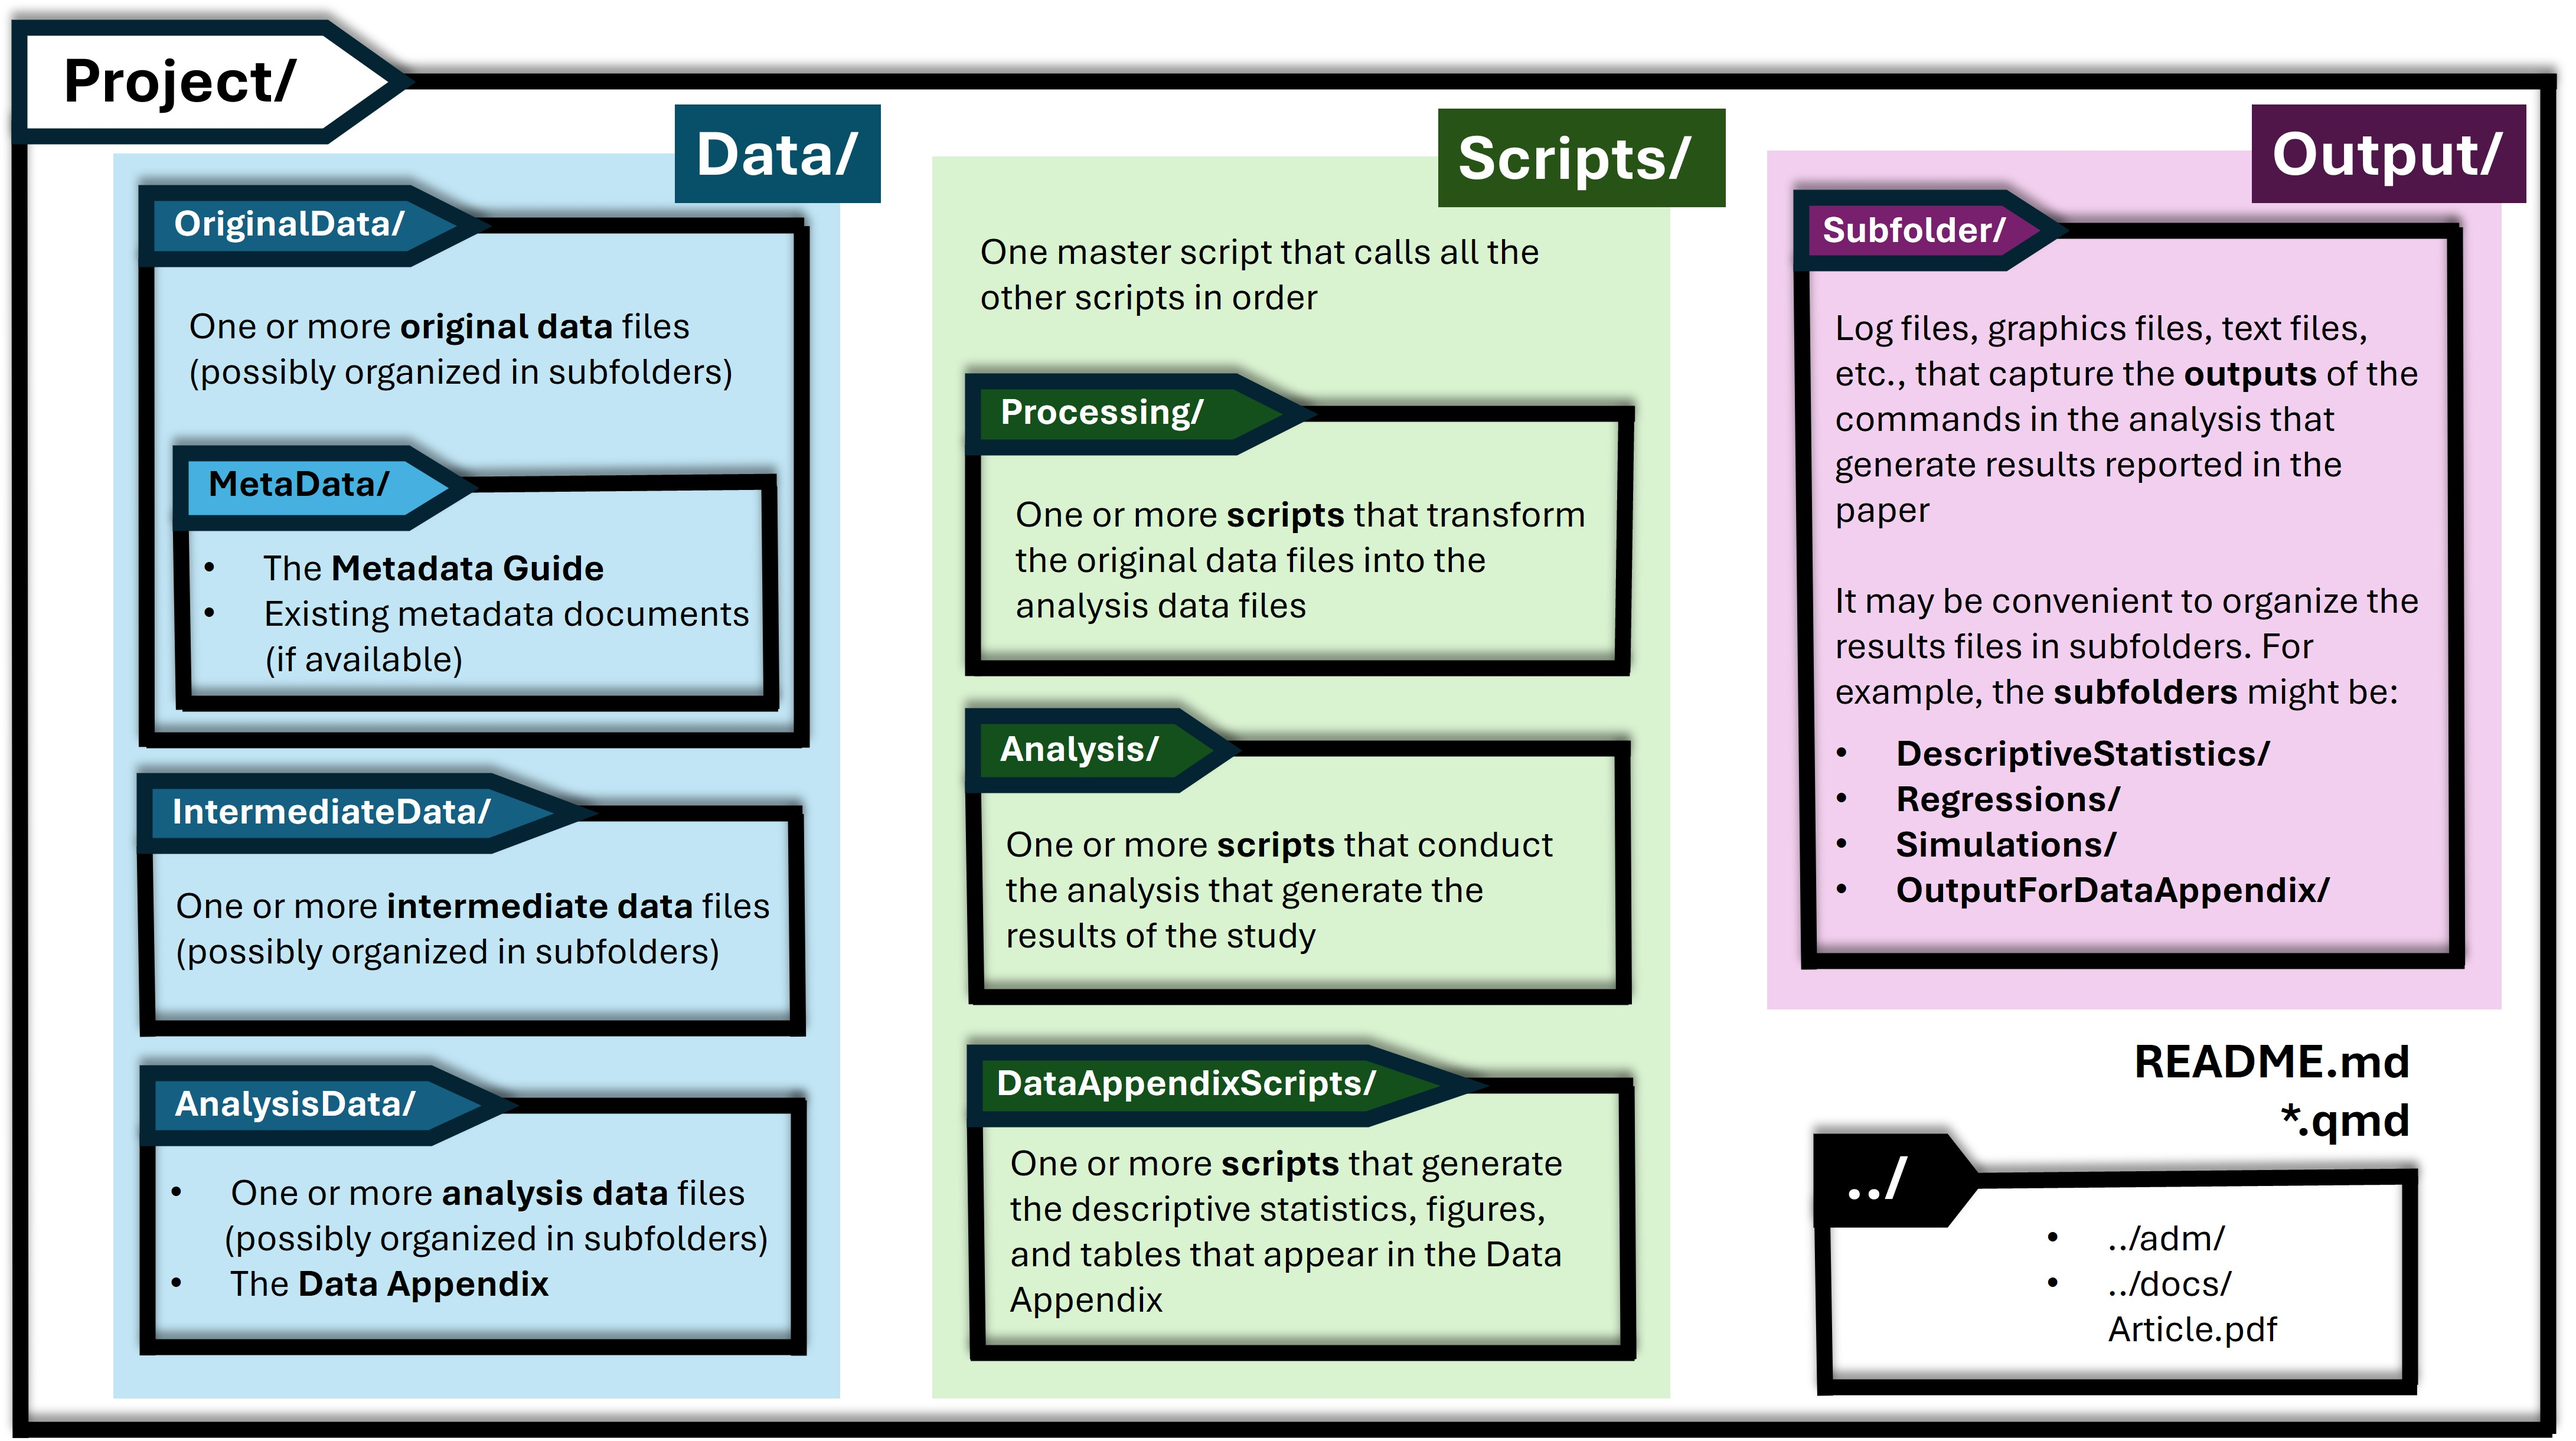
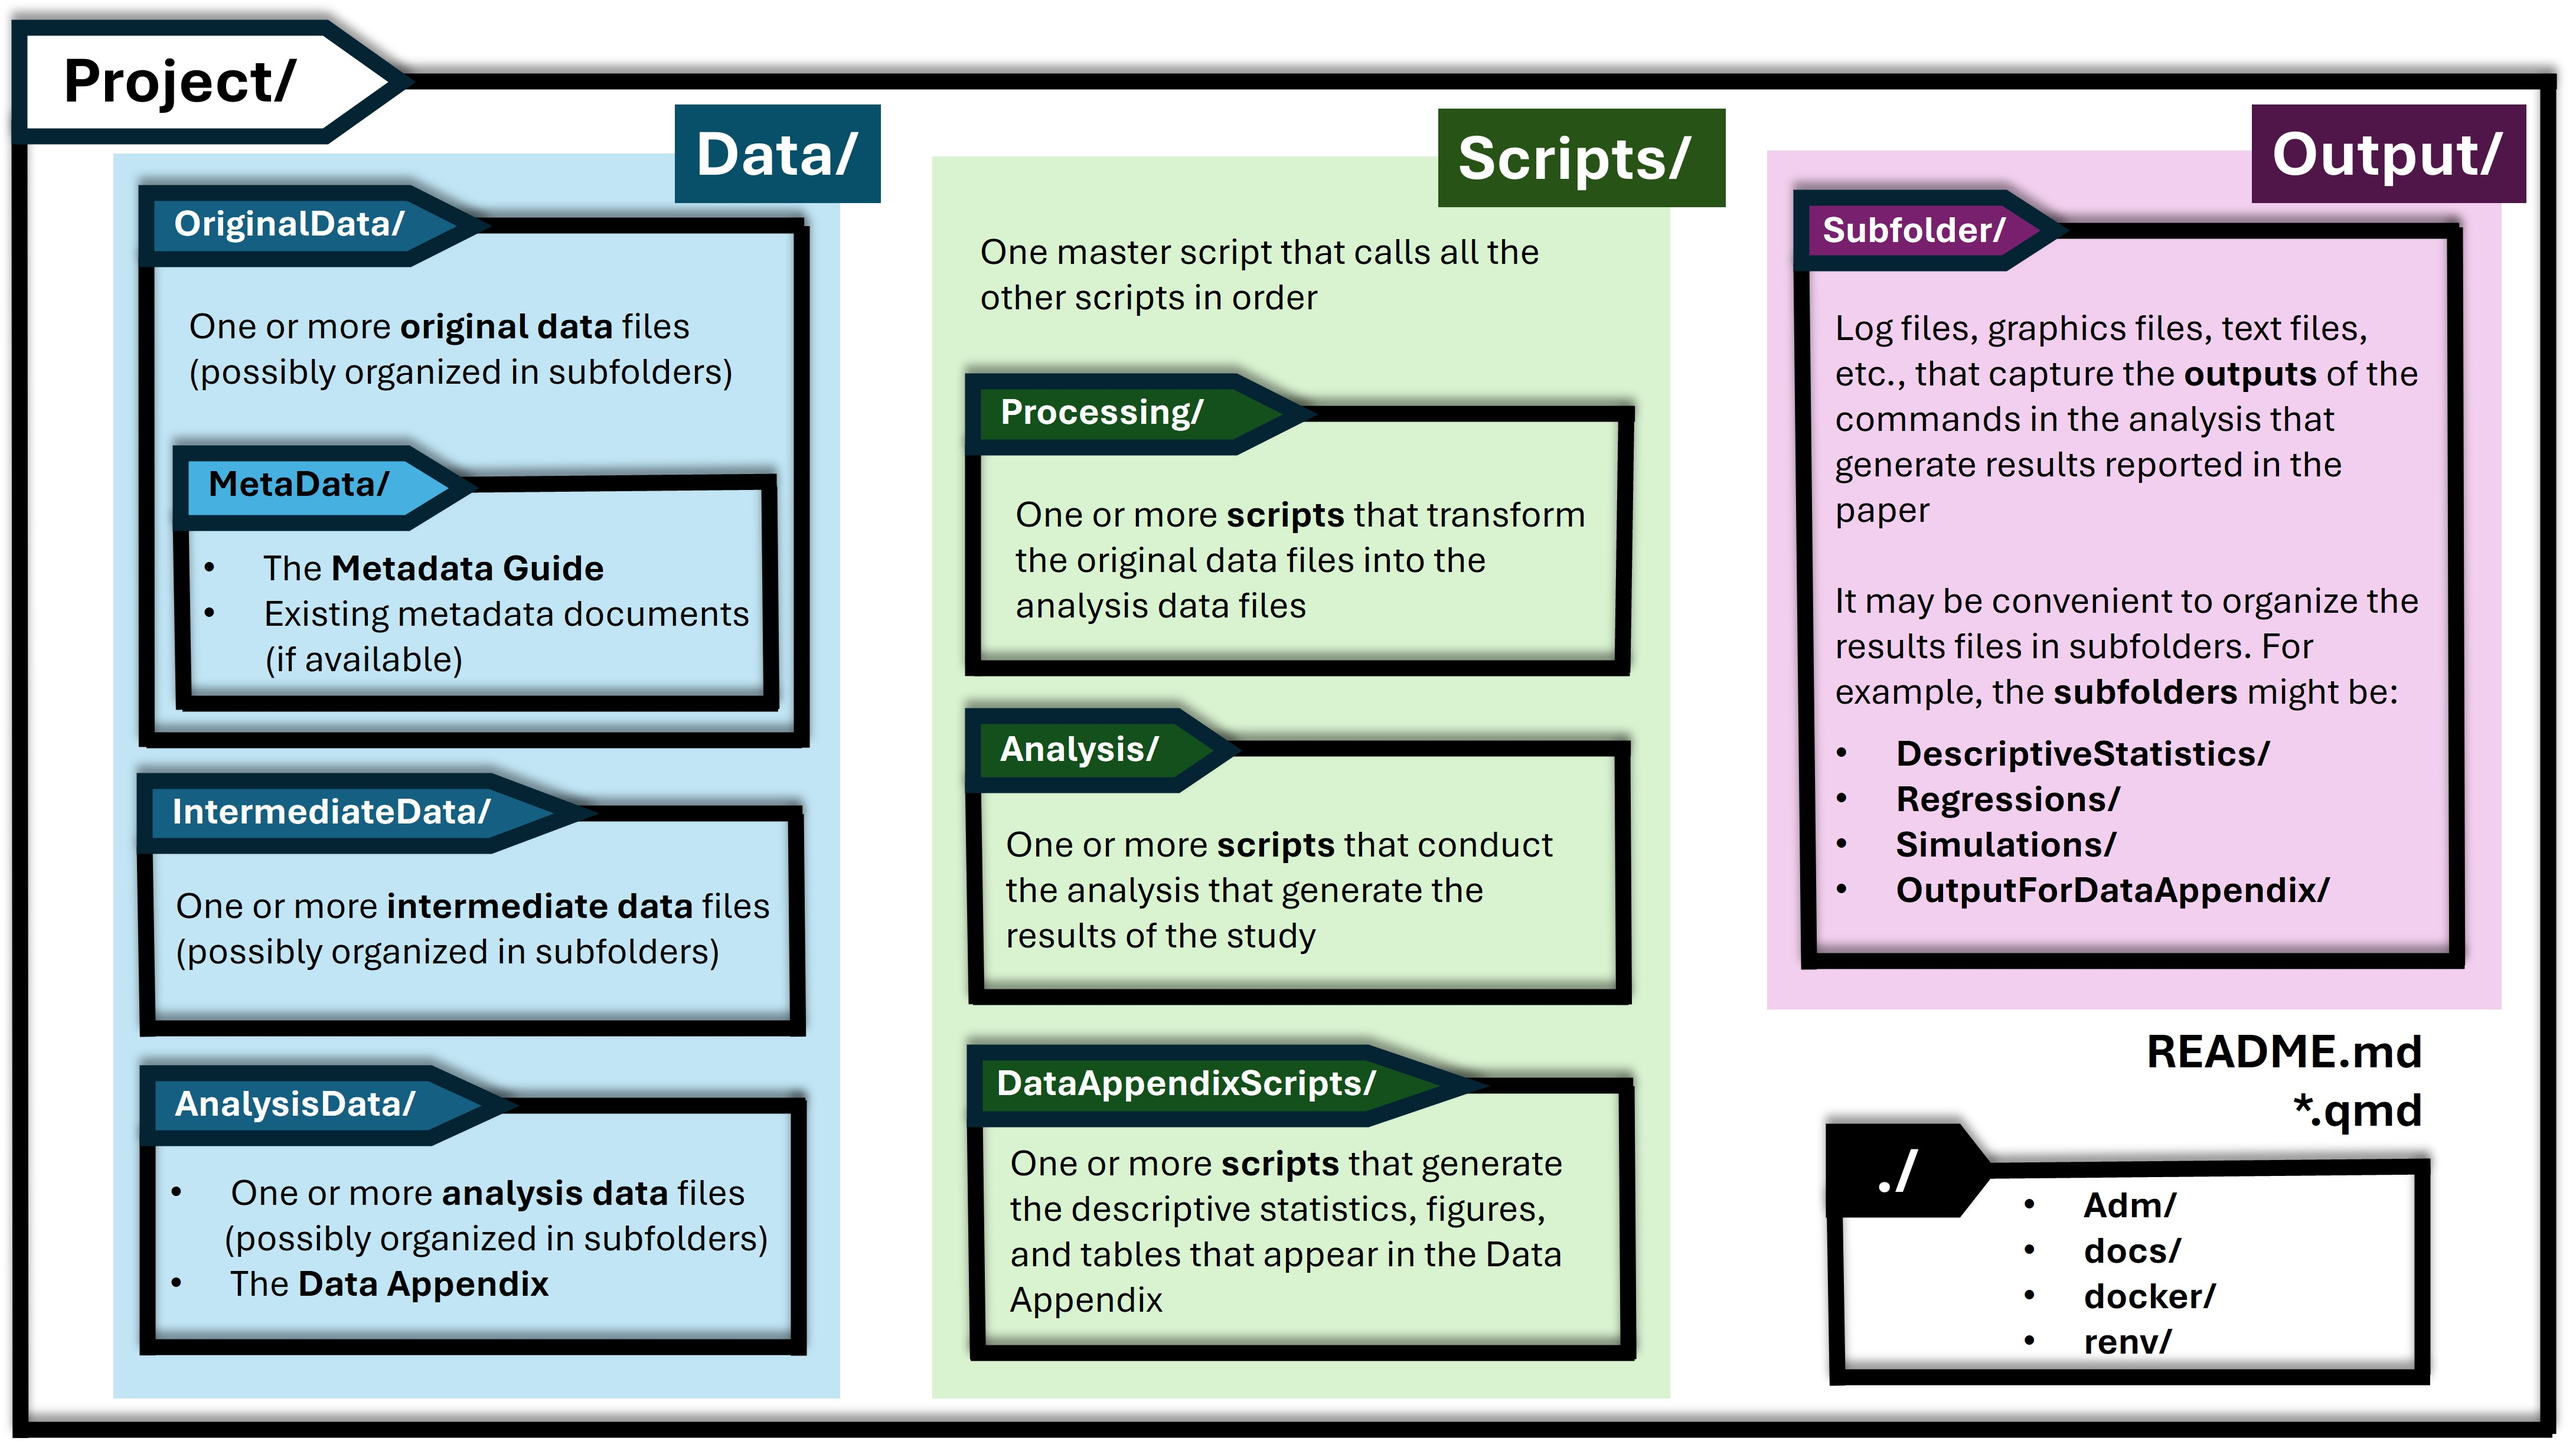
fix: docker review + root README + LICENSE

Changed region(s): [[0.6858, 0.7161, 0.9663, 0.9963]]

diff --git a/docker/README.md b/docker/README.md
@@ -4,48 +4,48 @@ This directory contains the configuration files needed to create a fully reprodu
 
 ### What's Included
 
-*   **`Dockerfile`**: Defines the custom Docker image, based on `rocker/verse:4.5.1`, pre-configured with necessary R packages (via `renv`) and LaTeX dependencies for Quarto.
-*   **`docker-compose.yml`**: An orchestration file that simplifies running the Docker container. It handles port mapping, volume mounting for data persistence, and setting necessary environment variables.
-*   **`start.bat` & `start.sh`**: Simple launcher scripts for Windows and Unix-like systems (macOS, Linux), respectively. These scripts automate finding an available port, starting the environment, and opening RStudio in your browser.
-*   **`stop.bat` & `stop.sh`**: Simple scripts to stop and clean up the running Docker container for Windows and Unix-like systems.
+-   **`Dockerfile`**: Defines the custom Docker image, based on `rocker/verse:4.5.1`, pre-configured with necessary R packages (via `renv`) and LaTeX dependencies for Quarto.
+-   **`docker-compose.yml`**: An orchestration file that simplifies running the Docker container. It handles port mapping, volume mounting for data persistence, and setting necessary environment variables.
+-   **`start.bat` & `start.sh`**: Simple launcher scripts for Windows and Unix-like systems (macOS, Linux), respectively. These scripts automate finding an available IP, starting the environment, and opening RStudio in your browser.
+-   **`stop.bat` & `stop.sh`**: Simple scripts to stop and clean up the running Docker container for Windows and Unix-like systems.
 
 ### Prerequisites
 
 Before using this environment, ensure you have the following installed on your machine:
 
-1.  **Docker**: Download and install Docker Desktop for your operating system from the official Docker website ([https://docs.docker.com/get-docker/](https://docs.docker.com/get-docker/)). Make sure it is running.
+1.  **Docker**: Download and install Docker Desktop for your operating system from the official Docker website (<https://docs.docker.com/get-docker/>). Make sure it is running.
 
 ### Quick Start
 
 1.  **Open a Terminal/Command Prompt:**
-    *   **Windows:** Open Command Prompt (`cmd`) or PowerShell. Navigate (`cd`) to this `docker` directory (e.g., `C:\path\to\your\article-template\docker`).
-    *   **macOS/Linux:** Open your terminal application. Navigate (`cd`) to this `docker` directory (e.g., `/path/to/your/article-template/docker`).
+    -   **Windows:** Open Command Prompt (`cmd`) or PowerShell. Navigate (`cd`) to this `docker` directory (e.g., `C:\path\to\your\article-template\docker`).
+    -   **macOS/Linux:** Open your terminal application. Navigate (`cd`) to this `docker` directory (e.g., `/path/to/your/article-template/docker`).
 2.  **Launch the Environment:**
-    *   **Windows:** Double-click the `start.bat` file, or run `start.bat` in the terminal.
-    *   **macOS/Linux:** Run `./start.sh` in the terminal (you might need to make it executable first with `chmod +x start.sh`).
+    -   **Windows:** Double-click the `start.bat` file, or run `start.bat` in the terminal.
+    -   **macOS/Linux:** Run `./start.sh` in the terminal (you might need to make it executable first with `chmod +x start.sh`).
 3.  **Access RStudio:**
-    *   The script will automatically find an available port (starting from 8787), start the container, and open your default web browser to `http://localhost:<port>`.
-    *   You should see the RStudio interface. **No login is required**; you are automatically logged in as the `rstudio` user.
-    *   The files from your main project directory (`article-template`) will be available in the RStudio file pane under `/home/rstudio/project`.
+    -   The script will automatically find an available IP (starting from 127.0.0.1), start the container, and open your default web browser to `http://127.0.0.1:8787`, for example.
+    -   You should see the RStudio interface. **No login is required**; you are automatically logged in as the `rstudio` user.
+    -   The files from your main project directory (`article-template`) will be available in the RStudio file pane under `/home/rstudio/project`.
 4.  **Work on Your Project:**
-    *   Open the `article-template.Rproj` file to activate the R project.
-    *   Open and edit your Quarto files (`.qmd`).
-    *   Run `quarto render` in the RStudio terminal to build your report.
+    -   Open the `article-template.Rproj` file to activate the R project.
+    -   Open and edit your Quarto files (`.qmd`).
+    -   Run `quarto render` in the RStudio terminal to build your report.
 5.  **Stop the Environment:**
-    *   When you are finished working:
-        *   **Windows:** Double-click the `stop.bat` file, or run `stop.bat` in the terminal.
-        *   **macOS/Linux:** Run `./stop.sh` in the terminal.
-    *   This stops the container and cleans up its resources. Your project files and installed packages are safely stored on your computer due to volume persistence.
+    -   When you are finished working:
+        -   **Windows:** Double-click the `stop.bat` file, or run `stop.bat` in the terminal.
+        -   **macOS/Linux:** Run `./stop.sh` in the terminal.
+    -   This stops the container and cleans up its resources. Your project files and installed packages are safely stored on your computer due to volume persistence.
 
 ### How It Works (Behind the Scenes)
 
-*   **Image Building:** The first time you run `start.bat`/`start.sh`, Docker Compose reads the `Dockerfile` and builds a custom image. This involves downloading the base `rocker/verse` image, installing LaTeX packages, and restoring R packages listed in your project's `renv.lock` file. This process can take several minutes. Subsequent starts will be much faster.
-*   **Container Runtime:** Docker Compose then starts a container based on this image.
-*   **Port Mapping:** The script finds an available port and maps it to port 8787 inside the container (where RStudio Server runs). This prevents conflicts if you run multiple projects or have another service using port 8787.
-*   **Volume Persistence:** Several directories are mounted as volumes:
-    *   Your main project folder (`..`) is mounted to `/home/rstudio/project`, ensuring all your files are accessible and changes are saved directly to your computer.
-    *   Special volumes are mounted for `renv`'s cache and library, storing downloaded and installed R packages. This means packages are installed only once and reused.
-    *   Directories for RStudio's settings (`~/.config`, `~/.local`, `~/.rstudio`, `~/.R`) are mounted to local folders (`./cache/...`) to preserve your RStudio preferences and layout between sessions for this project.
-*   **Environment:** Necessary environment variables like `DISABLE_AUTH=true` are set to simplify access.
+-   **Image Building:** The first time you run `start.bat`/`start.sh`, Docker Compose reads the `Dockerfile` and builds a custom image. This involves downloading the base `rocker/verse` image, installing LaTeX packages, and restoring R packages listed in your project's `renv.lock` file. This process can take several minutes. Subsequent starts will be much faster.
+-   **Container Runtime:** Docker Compose then starts a container based on this image.
+-   **IP Mapping:** The script finds an available IP and maps it to port 8787 inside the container (where RStudio Server runs). This prevents conflicts if you run multiple projects.
+-   **Volume Persistence:** Several directories are mounted as volumes:
+    -   Your main project folder (`..`) is mounted to `/home/rstudio/project`, ensuring all your files are accessible and changes are saved directly to your computer.
+    -   Special volumes are mounted for `renv`'s cache and library, storing downloaded and installed R packages. This means packages are installed only once and reused.
+    -   Directories for RStudio's settings (`~/.config`, `~/.local`, `~/.rstudio`, `~/.R`) are mounted to local folders (`./cache/...`) to preserve your RStudio preferences and layout between sessions for this project.
+-   **Environment:** Necessary environment variables like `DISABLE_AUTH=true` are set to simplify access.
 
 This setup provides a robust, persistent, and easy-to-use environment tailored for reproducible research with Quarto and R.

diff --git a/README.md b/README.md
@@ -1,12 +1,14 @@
-# TIER Protocol 4.0: Dynamic and Reproducible Research Article Template
+# Dynamic and Reproducible Research Article Template
 
-[![OSF](https://img.shields.io/badge/OSF-10.17605/OSF.IO/NJDQ5-blue)](https://osf.io/njdq5/) [![GitHub Pages](https://img.shields.io/github/deployments/phdpablo/article-template/github-pages?label=GitHub%20Pages)](https://phdpablo.github.io/article-template/) [![License](https://img.shields.io/github/license/phdpablo/article-template)](LICENSE) [![DOI](https://zenodo.org/badge/DOI/10.5281/zenodo.13119679.svg)](https://doi.org/10.5281/zenodo.13119679)
+[![OSF](https://img.shields.io/badge/OSF-10.17605/OSF.IO/NJDQ5-blue)](https://osf.io/njdq5/) [![GitHub Pages](https://img.shields.io/github/deployments/phdpablo/article-template/github-pages?label=GitHub%20Pages)](https://phdpablo.github.io/article-template/) [![License](https://img.shields.io/badge/License-CC%20BY--NC%204.0-lightgrey.svg)](https://creativecommons.org/licenses/by-nc/4.0/) [![DOI](https://zenodo.org/badge/DOI/10.5281/zenodo.13119679.svg)](https://doi.org/10.5281/zenodo.13119679)
 
 This repository provides a template for creating a **dynamic and fully reproducible research article** using **Quarto**, **RStudio**, the **TIER Protocol 4.0**, and **Docker**. It offers a structured project organization, integrates seamlessly with Git/GitHub for version control, and is configured for easy publication on **GitHub Pages** and **OSF**.
 
 The template is designed to meet the **Full Reproducibility** standard by encapsulating the entire computational environment, including R, R packages (managed by `renv`), and LaTeX dependencies, within a Docker container. This ensures that your research can be replicated exactly, regardless of the user's local machine setup.
 
-Explore the deployed template: <https://phdpablo.github.io/article-template/>
+The folder structure of the repository is summarized in the picture below, and more information may be found in its deployment, which serves as a showcase: <https://phdpablo.github.io/article-template/>.
+
+![TIER Protocol 4.0: Quarto Reproducible Dynamic Template](Output/tier-folders.jpg)
 
 ## Table of Contents
 
@@ -62,7 +64,7 @@ This method uses the pre-configured Docker setup for the easiest and most reprod
     -   **macOS/Linux:** Run `./start.sh` (you might need `chmod +x start.sh` first).
     -   This script automatically finds an available port, builds the Docker image (if needed), starts a container with the name of the folder you cloned/downloaded, and opens RStudio in your browser.
 4.  **Access RStudio:**
-    -   Your browser should automatically open RStudio at `http://localhost:<port>`. If not, go to your browser.
+    -   Your browser should automatically open RStudio at `http://ip_host:8787`. If not, go to your browser.
     -   You are logged in automatically as the `rstudio` user.
     -   Your project files are located in `/home/rstudio/project`.
 5.  **Start Working:**
@@ -89,7 +91,7 @@ If you prefer manual control or want to understand the process:
 
 ## Accessing the RStudio Environment {#accessing-the-rstudio-environment}
 
--   **URL:** `http://localhost:<port>` (The `start` scripts automatically open this).
+-   **URL:** `http://ip_host:8787` (The `start` scripts automatically open this).
 -   **Authentication:** No login required (`DISABLE_AUTH=true`).
 -   **User:** You are logged in as the `rstudio` user.
 -   **Project Location (in Container):** `/home/rstudio/project` (This is your local project folder mounted inside the container).

diff --git a/Untitled.md b/Untitled.md
@@ -1,0 +1,5 @@
+---
+title: "Untitled"
+output: html_document
+---
+
